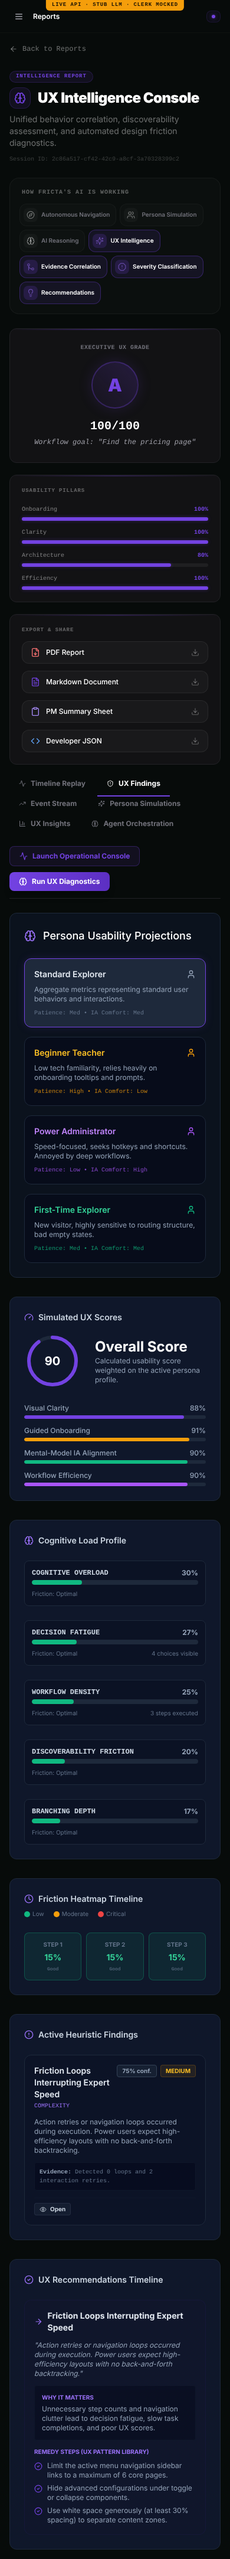
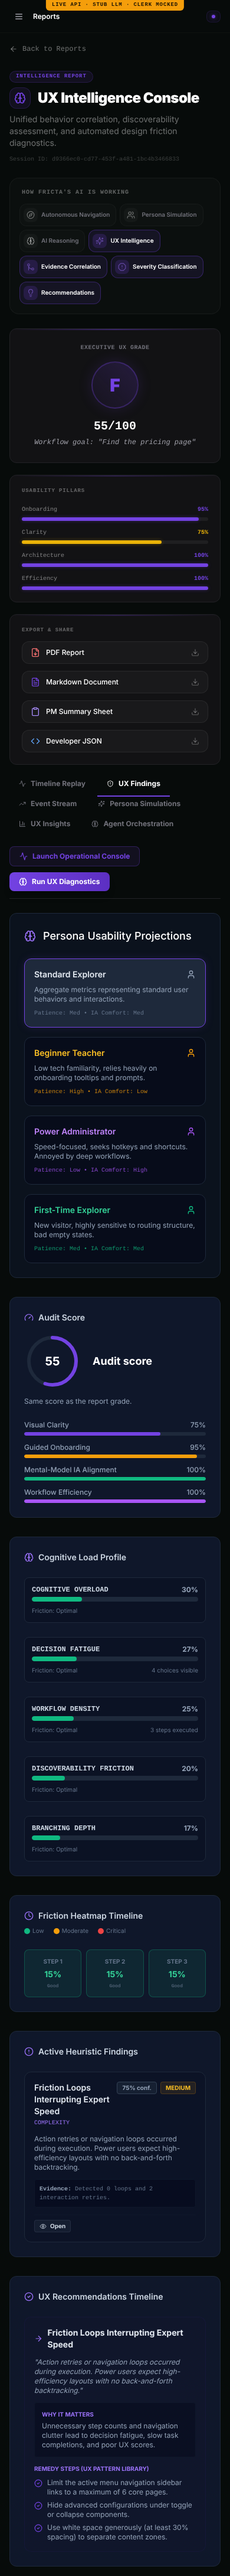
docs(verification): round 2 results: one audit score, exports/sharing, LOOP_DETECTED, concurrency
Moves only items exercised in this round to verified; keeps every earlier
caveat. Re-shot all 24 live-data screenshots at 390/768/1440 (LLM = local
stub, Clerk mocked) and records the 75/75 stub E2E run.

diff --git a/docs/verification/v1-finish/README.md b/docs/verification/v1-finish/README.md
@@ -1,7 +1,7 @@
 # V1 finish — verification record
 
 Branch `fricta/v1-finish` (from `fricta/v1-frontend-completion` @ `489e803`).
-Run date: 2026-11-22, in a sandboxed cloud container with local PostgreSQL 16
+Run dates: 2026-11-22 (round 1 and round 2, same day), in a sandboxed cloud container with local PostgreSQL 16
 and Redis 7. **No live LLM was called.** No paid model or service was used, and
 no secret is in code, logs or commits.
 
@@ -19,7 +19,9 @@ stub. **Not verified** means not exercised; the reason is given.
 | Non-free id → `PaidModelNotAllowedError` at startup, in the factory and in direct provider/vision construction | Verified (unit tests) |
 | Only `ALLOW_PAID_MODELS=true` (exact) opts in | Verified (unit tests) |
 | `AGENT_BASE_URL` (+ optional `AGENT_API_KEY`) used by the planner **and** the vision analyzer | Verified (unit test against the stub; E2E runs entirely through it) |
-| `google/gemma-4-31b-it:free` really is free and accepts images on OpenRouter today | **Not verified from here.** openrouter.ai is blocked by this sandbox's egress proxy. The choice is based on OpenRouter's public model page as indexed by web search on 2026-11-22: text+image+video input, 262k context, $0, rate-limited, single provider (Google AI Studio). Re-check at <https://openrouter.ai/models?max_price=0> before relying on it. |
+| `google/gemma-4-31b-it:free` really is free and accepts images on OpenRouter today | **Not verified from this sandbox** (openrouter.ai is blocked by its egress proxy). Round 1 picked it from OpenRouter's public model page as indexed by web search: text+image+video input, 262k context, $0, rate-limited, single provider (Google AI Studio). Round 2: the project owner reports it was confirmed free and image-capable from OpenRouter's public models API on 2026-11-22; the default is unchanged. Free variants rotate, so re-check with `npm run check:models --workspace=@fricta/backend` (public API, no key, no cost). |
+| `check:models` re-check script | Logic verified offline against a **synthetic** saved response (`OPENROUTER_MODELS_FILE`): exit 0 when listed at $0 with image input, 1 when delisted or the vision model lacks image input. The live run from here exits 2 (unreachable), as expected. Not yet run against the real API. |
+| Startup note | Verified: the backend logs the active agent/vision model and endpoint, plus the re-check hint, at boot. |
 
 The free rule is a naming rule (`:free` suffix or the `openrouter/free`
 router). It cannot prove that an arbitrary `AGENT_BASE_URL` endpoint is free,
@@ -36,23 +38,34 @@ Clerk part uses networkless mode: `CLERK_JWT_KEY` is a throwaway PEM generated
 per run, and tokens are signed with its private key. No middleware is mocked.
 
 Run: `npm run test:e2e:stub --workspace=@fricta/backend`
-Result: **42/42 checks passed.** Full list: `e2e-stub-results.json`.
+Result: round 1 **42/42**; round 2 **75/75 checks passed** (the 42 plus 33 new
+ones). Full list from the final run: `e2e-stub-results.json`.
 
 | Step | Against the stub | Still needs a real LLM to trust |
 |---|---|---|
 | Launch (`POST /api/agent/workflow/run`) | Stub-verified | — |
-| BullMQ worker picks up job, Playwright browses a local target site | Stub-verified (RUNNING → COMPLETED, 3 steps; dead-end scenario → FAILED, 6 steps) | Whether a free model returns valid action JSON reliably, within the 150-token cap and the step timeout |
+| BullMQ worker picks up job, Playwright browses a local target site | Stub-verified (RUNNING → COMPLETED, 3 steps; dead-end scenario → FAILED: three scrolls succeed, then the validator rejects a fourth identical scroll and the planner's retry repeats it. Round 1 counted 6 steps for the same path, round 2's final run 3) | Whether a free model returns valid action JSON reliably, within the 150-token cap and the step timeout |
 | Status / thoughts / actions persisted and readable | Stub-verified | Quality of thoughts |
 | SSE (`/api/realtime/{replay,timeline,orchestration}`) connects + hydrates, rejects other users | Stub-verified (`system.connected`, `system.hydrated`) | Live event cadence during a long real run was not observed |
-| Report auto-generated on job completion, listed, executive summary, timeline | Stub-verified | Meaningfulness of scores |
+| Report auto-generated on job completion, listed, executive summary, timeline | Stub-verified. Round 2: on completion the worker first runs heuristic visual analysis and UX analysis, so findings exist when the grade is computed | Meaningfulness of scores |
+| One audit score (report = executive grade = reports list = Markdown = PM summary) | Stub-verified (round 2): happy path 90/A, dead-end 55/F, no-exit 55/F; list matches right after analysis | The happy path's 90 includes −24 for visual findings, part of which are the **stub's** scripted `[STUB]` vision boxes. A real model will produce different findings and so different scores |
 | Findings: visual heuristics + vision call, UX analysis, recommendations, orchestrator, agent findings, shared memory, historical analysis | Stub-verified (vision request reached the stub with a real screenshot; 9 visual findings; dead-end run yields a UX friction finding) | **Vision accuracy:** the stub returns a fixed `[STUB]` box. A real image-capable free model has never been called. |
 | Replay: 3 screenshots + 3 timeline events, raw image served only with auth (401 anon / 200 owner, real WebP) | Stub-verified | — |
 | Exports: JSON, PDF (real `%PDF-`, ~85 KB) | Stub-verified | — |
+| Markdown + PM-summary exports (server-generated in `GET /api/reports/:id/export`) | Stub-verified (round 2): both contain the same score and grade as the report; Markdown includes the goal | Content quality |
+| Executive report → `/api/reports/exports*`: queue PDF, list, complete, download | Stub-verified (round 2): real `%PDF-` download, ~62 KB; `SNAPSHOT` (not implemented) ends FAILED with "not yet implemented"; other users get 403 on list, create and download | Only PDF is implemented; PRESENTATION / SNAPSHOT / CSV / ZIP are not |
+| Sharing: create, list, anonymous open (`GET /api/shared/:token`), unknown / revoked / expired / max-uses tokens, cross-user create, list and revoke | Verified (round 2) | — |
+| `dead_end` terminal signal → `LOOP_DETECTED` | Stub-verified (round 2): on a page with no links, buttons or inputs the stub sends `dead_end`; the run ends `LOOP_DETECTED` (actions `scroll`, `wait:dead_end`) and is graded F | Whether a real model emits `dead_end` when appropriate |
+| Concurrency: two audits launched at once, two backend/worker processes on the same Postgres + Redis | Stub-verified (round 2): each job ran on exactly one worker (one per process in the final run), both COMPLETED, screenshots and actions stayed on each audit's own site (`/alpha` vs `/beta`), exactly one report each, queue empty afterwards | Only 2 audits × 2 workers, once per run. Not a load test, not worker crash/stall recovery |
 | Cross-user isolation on 13 session-scoped routes + SSE + historical | Verified | — |
 
-Not exercised: Markdown / PM-summary exports (client-side), the
-`/api/reports/exports*` and sharing endpoints, real OpenRouter
-rate-limit/402/404 handling, multi-worker concurrency.
+Round 1 listed as not exercised: Markdown / PM-summary exports (wrongly
+described as client-side; they are server-generated), the
+`/api/reports/exports*` and sharing endpoints, and multi-worker concurrency.
+All are exercised in round 2 (rows above). Still not exercised: real
+OpenRouter rate-limit/402/404 handling, export templates / evidence /
+distribution endpoints (now reachable, see bug 14, but not driven), and load
+beyond two concurrent audits.
 
 ### Real bugs this exposed (all fixed on this branch)
 1. `page.evaluate` threw `__name is not defined` under tsx (`npm run dev`), so screenshot metadata was always empty. Fixed with a shim per browser context.
@@ -67,6 +80,14 @@ rate-limit/402/404 handling, multi-worker concurrency.
 10. The step-friction strip overflowed its panel by 53 px at exactly 768 px (`md:flex-nowrap`).
 11. `npm ci` ran `npx playwright install` via a `postinstall` and failed wherever the browser CDN is blocked (this also affected the frontend Docker build).
 12. Clerk middleware ignored `CLERK_JWT_KEY` (`@hono/clerk-auth` drops it when reading env itself).
+
+Round 2:
+
+13. **Grade ignored outcome and findings.** Every pillar started at 100 and only action-log signals were subtracted, and the grade was computed before any visual/UX analysis ran. So a failed dead-end audit with visual warnings was "A 100/100". Now `scoreAudit()` (ux-engine) is the single source of truth: behavioural pillars, minus UX findings (smoothness, capped −40), minus visual defect findings (clarity, capped −25; `vision_summary` commentary ignored), and capped at 55 (grade F) when the goal was not reached. The formula has no hard-coded 100 once findings exist (unit-tested).
+14. **Route shadowing.** `GET /api/reports/:id` was registered before the static `GET /exports`, `/sharing`, `/templates`, `/evidence` and `/distribution`, so those handlers never ran (Hono answered 404 from `requireWorkflowOwner('exports')`; reproduced with a minimal Hono app). Session-scoped routes now register last.
+15. **Share links couldn't be opened anonymously.** The only resolver required auth and returned the creator's user id and the recipient email. The new public `GET /api/shared/:token` returns just the shared report and its expiry.
+16. **Persona panel invented a second score.** "Overall Score 89" came from hard-coded per-persona constants. It now projects the audit score: Standard is the audit score itself; other personas subtract only findings tagged for them (frontend unit-tested).
+17. **Reports list showed stale scores.** The orchestrator ("Run UX Diagnostics") and report generation wrote the raw behavioural score back to `UXReport.score`, so the list said 100 while the report said 90. All writers now store the audit score, and visual/UX analysis refreshes it.
 
 ## 3. Landing/auth video and Clerk fallback
 - **Mux video:** the auth-shell background streamed `stream.mux.com/…m3u8` (reported 403). This sandbox can't reach Mux at all, so the 403 itself was not reproduced here. Replaced with the bundled, previously unused `Video_Fricta.mp4`, and `hls.js` removed. The landing page already used a bundled MP4. **Verified:** the video renders as the auth background (local probe screenshot).
@@ -110,18 +131,19 @@ the likely cause and a reload button. Verified in the second probe attempt.
 | `npm ci` | passes (after removing the browser-download postinstall) |
 | `npx turbo run build` (45 packages incl. frontend) | **pass** |
 | `npm run typecheck` (backend + frontend) | **pass** |
-| `npm run lint` | **0 errors**, 2,568 warnings (2,567 before this branch; the +1 is a `tx: any` in the UX coordinator) |
-| Backend unit (`vitest run`) | **67/67 pass** (10 new for the LLM policy, 4 new 403 cases) |
-| Backend integration (`vitest --config vitest.integration.config.ts`, real `fricta_test` DB) | **31/31 pass** |
-| `npm run test:security` | **8/8 + 19/19 pass** |
-| E2E vs stub (`test:e2e:stub`) | **42/42 pass** |
-| Frontend unit tests | none exist |
+| `npm run lint` | **0 errors**. Warnings: 2,567 before this branch → 2,568 after round 1 → 2,583 after round 2 (+15 `any` casts in new backend code: Prisma tx and coordinator wiring) |
+| Backend unit (`vitest run`) | Round 1 **67/67**; round 2 **76/76** (7 new `scoreAudit` tests, 2 new grade tests in `report.test.ts`) |
+| Backend integration (`vitest --config vitest.integration.config.ts`, real `fricta_test` DB) | **31/31 pass** (both rounds) |
+| `npm run test:security` | **8/8 + 19/19 pass** (both rounds) |
+| E2E vs stub (`test:e2e:stub`) | Round 1 **42/42**; round 2 **75/75** |
+| Frontend unit (`npm test -w @fricta/frontend`, new in round 2) | **4/4 pass** (persona projection) |
 
 ## 6. Screenshots (390 / 768 / 1440)
 `screenshots/<width>/`: `landing`, `dashboard`, `new-audit`, `audit-monitor`,
 `report` (UX Findings tab), `report-replay` (Timeline Replay tab),
-`report-dead-end`. 21 images; `layout-report.json` has per-shot overflow
-measurements.
+`report-dead-end`, and (round 2) `report-dead-end-persona` (Power
+Administrator selected). 24 images, all re-shot in round 2 from a fresh run;
+`layout-report.json` has per-shot overflow measurements.
 
 How they were made: the dev-only harness in **live-API mode**
 (`FIXTURES_API_TARGET`) proxied `/api` to the real backend left running by
@@ -131,7 +153,15 @@ real screenshots of the local target site. **Clerk is mocked** (no real session
 is possible here; see §4), so the user shows as "Fixture User". The amber badge
 on every shot says "Live API · stub LLM · Clerk mocked".
 
-Inspection: automated overflow check, 0 flagged on the final run. Visual
+Round 2 inspection: automated overflow check, 0 of 24 flagged. Visual review
+of the report pages at 1440, 768 and 390: the dead-end report shows grade F
+55/100 with "Audit score 55, same score as the report grade" beside it, and the
+persona shot shows "Projected for persona 51" (55 − 4). One cramped layout was
+found and fixed before the final shots: the big heading wrapped to three lines
+with its caption squeezed into a narrow column at 1440. The caption is now
+full width under the gauge.
+
+Round 1 inspection: automated overflow check, 0 flagged on the final run. Visual
 review of the replay (1440, 390), report (768), dashboard, new audit and
 monitor (390) found no clipping, except the two defects already listed (768
 heatmap overflow, broken replay images), both fixed before the final run. On
@@ -141,7 +171,9 @@ phones the Timeline Replay tab intentionally shows a "best on desktop" notice.
 - **No live LLM call has ever been made.** Unknowns: free-model JSON reliability, latency against the 150-token cap and step timeouts, OpenRouter free-tier rate limits, vision quality, and whether `google/gemma-4-31b-it:free` is still listed when the key arrives.
 - **Real-Clerk sign-up not verified** (blocked hosts; see §4). Real sign-in was verified in an earlier session, not in this one.
 - Mux 403 not reproduced here (Mux unreachable), only removed.
-- The report page shows two different scores (grade "A 100/100" from report scores vs "Overall Score 89" from the persona simulation). It's a product-copy/scoring inconsistency, not fixed.
-- The dead-end scenario ends `FAILED`, not `LOOP_DETECTED`: the action validator rejects the stub's third identical scroll. That is correct validator behaviour given the stub's script, but it means the `dead_end` terminal path was not exercised.
+- ~~The report page shows two different scores~~. **Fixed in round 2** (bugs 13, 16, 17). Caveat: the penalty weights (−5/−10/−15 per UX finding, −1…−8 per visual finding, F-cap 55) are product judgement, not calibrated against real users or a real model's findings.
+- ~~The `dead_end` terminal path was not exercised~~. **Exercised in round 2** via the no-exit page (`LOOP_DETECTED`). The original dead-end scenario still ends `FAILED` through the validator-rejection path, which is also exercised.
+- Concurrency covers 2 audits × 2 workers in one run. Not covered: worker crash mid-job, BullMQ stalled-job recovery, more than 2 parallel browsers, multiple Node processes hitting the per-process in-memory fallbacks (`memoryDb`) when the DB is down.
+- Export formats other than PDF are not implemented (they fail honestly).
 - BullMQ retries a job up to 3× only when `runWorkflow` throws (e.g. provider setup failure); a failed agent loop is not retried. Not changed.
 - Lint warnings (2.5k, pre-existing) not addressed.
